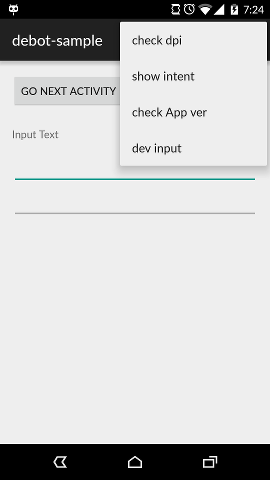
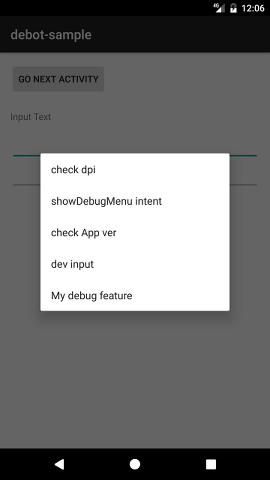
update image

diff --git a/debot-sample/src/main/java/com/tomoima/debot/sample/MyApplication.java b/debot-sample/src/main/java/com/tomoima/debot/sample/MyApplication.java
@@ -3,8 +3,6 @@ import android.app.Application;
 import android.content.res.Configuration;
 
 import com.tomoima.debot.DebotConfigurator;
-import com.tomoima.debot.DebotStrategyBuilder;
-import com.tomoima.debot.sample.strategy.MyCustomStrategy;
 import com.tomoima.debot.sample.utils.LocalStorageUtil;
 
 
@@ -31,10 +29,11 @@ public class MyApplication extends Application {
         //Check if a device is a tablet
         LocalStorageUtil.putBoolean("is_tablet", getResources().getBoolean(R.bool.is_tablet));
 
-        DebotStrategyBuilder builder = new DebotStrategyBuilder.Builder(this)
-                .registerMenu("My debug feature", new MyCustomStrategy())
-                .build();
-        DebotConfigurator.configureWithCustomizedMenu(this, builder.getStrategyList());
+//        DebotStrategyBuilder builder = new DebotStrategyBuilder.Builder(this)
+//                .registerMenu("My debug feature", new MyCustomStrategy())
+//                .build();
+//        DebotConfigurator.configureWithCustomizedMenu(this, builder.getStrategyList());
+        DebotConfigurator.configureWithDefault(this);
     }
 
     /**
